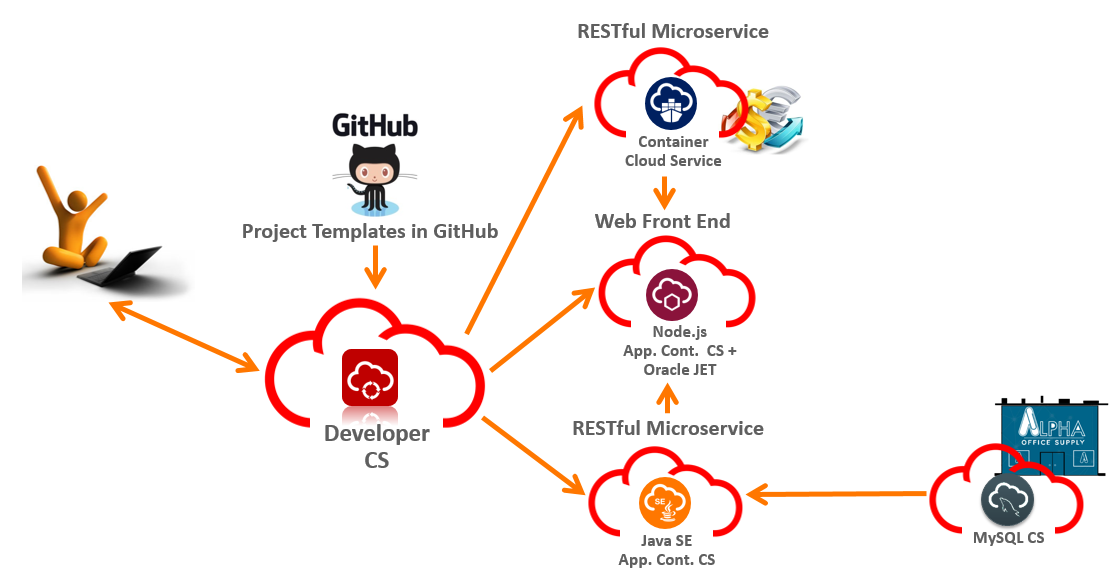
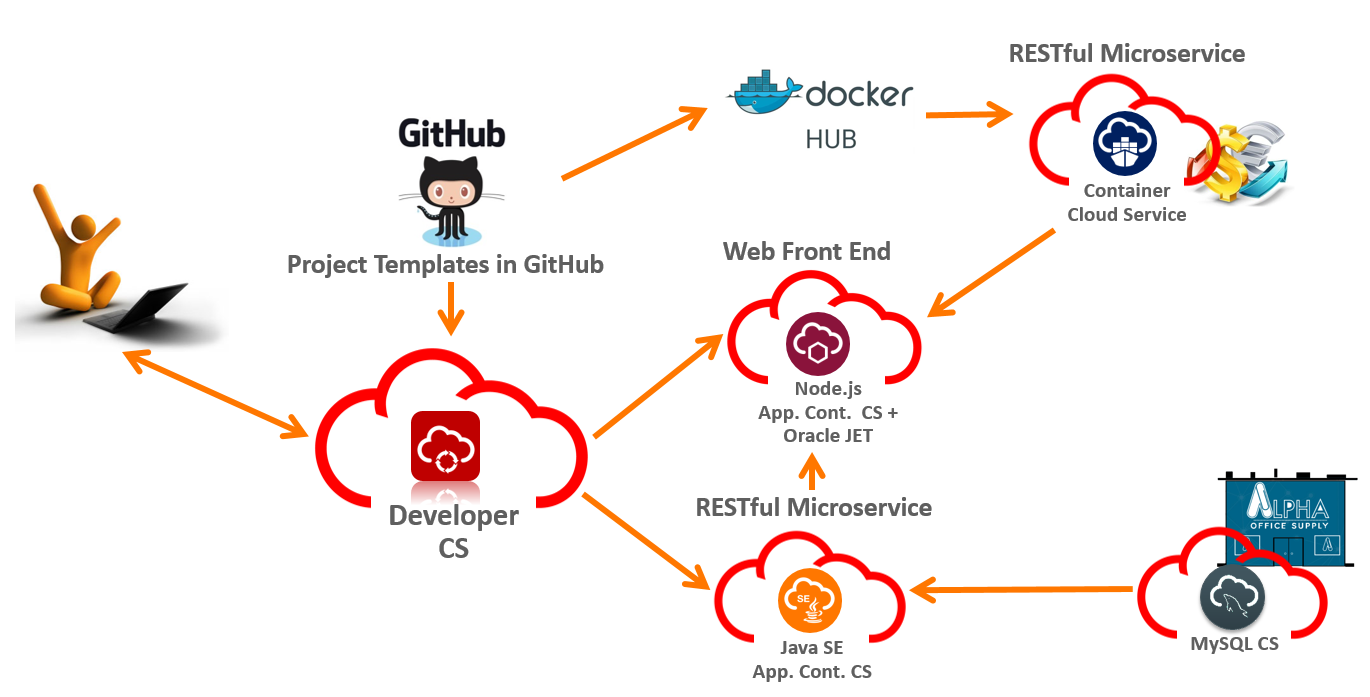
Creating a home splash page for guide
Reworking some fo the UI

diff --git a/index.html b/index.html
@@ -39,7 +39,7 @@
       <md-toolbar class="md-hue-2 infra">
         <h1 class="md-toolbar-tools infra">Workshop Contents</h1>
       </md-toolbar>
-      <md-content>
+      <md-content style="height: 110%;">
         <md-list>
             <md-list-item class="md-3-line toc-item infra" ng-repeat="lab in manifest.workshop.labs" ng-click="getLabGuide(lab); close();">
                 <div class="md-list-item-text infra">
@@ -178,8 +178,8 @@
             $mdSidenav('left').close();
         };
         
-        //upon page load, display README
-        $scope.getLabGuide({filename: 'README.md'});
+        //upon page load, display Home
+        $scope.getLabGuide({filename: 'Home.md'});
     }]);
     
 </script>

diff --git a/Home.md b/Home.md
@@ -1,0 +1,92 @@
+![](images/home/cloud-touch.png)
+# Oracle Touch the Cloud Series Presents
+## AppDev Starter kit 
+This workshop designed to help you get started with your Oracle Cloud trial account.
+    
+## Servcie Breakdown
+As part of your Oracle Cloud Trial you have full access to all of the funcationality of a variety of services. To help break things down lets start by taking the services you have access to and breaking things down
+
+| What You Have in your Trial | What can apply most to AppDev | What will we use in this workshop  |
+| --------------------------- |:-----------------------------:| ----------------------------------:|
+| [Oracle Database](https://cloud.oracle.com/database)                            | [Oracle Database](https://cloud.oracle.com/database)                          | [MySQL](https://cloud.oracle.com/mysql)                                       |
+| [MySQL](https://cloud.oracle.com/mysql)                                         | [MySQL](https://cloud.oracle.com/mysql)                                       | [Application Container](https://cloud.oracle.com/application-container-cloud) |
+| [GoldenGate](https://cloud.oracle.com/goldengate)                               | [Java](https://cloud.oracle.com/java)                                         | [Developer](https://cloud.oracle.com/developer-service)                       |
+| [Database Backup](https://cloud.oracle.com/database-backup)                     | [Mobile](https://cloud.oracle.com/mobile)                                     | [Container](https://cloud.oracle.com/container)                               |
+| [Big Data – Compute Edition](https://cloud.oracle.com/big-data-compute-edition) | [Application Container](https://cloud.oracle.com/application-container-cloud) |                                    |
+| [Big Data Preparation](https://cloud.oracle.com/big-data-preparation)           | [Compute](https://cloud.oracle.com/compute)                                   |                                    |
+| [Ravello](https://cloud.oracle.com/ravello)                                     | [Bare Metal](https://cloud.oracle.com/bare-metal)                             |                                    |
+| [Java](https://cloud.oracle.com/java)                                           | [Storage](https://cloud.oracle.com/storage)                                   |                                    |
+| [Integration](https://cloud.oracle.com/integration)                             | [Container](https://cloud.oracle.com/container)                               |                                    |
+| [SOA](https://cloud.oracle.com/soa)                                             | [Developer](https://cloud.oracle.com/developer-service)                       |                                    |
+| [Process](https://cloud.oracle.com/process)                                     | [Messaging](https://cloud.oracle.com/messaging)                               |                                    |
+| [Mobile](https://cloud.oracle.com/mobile)                                       |                               |                                    |
+| [Application Container](https://cloud.oracle.com/application-container-cloud)   |                               |                                    |
+| [Internet of Things](https://cloud.oracle.com/iot)                              |                               |                                    |
+| [Compute](https://cloud.oracle.com/compute)                                     |                               |                                    |
+| [Bare Metal](https://cloud.oracle.com/bare-metal)                               |                               |                                    |
+| [Storage](https://cloud.oracle.com/storage)                                     |                               |                                    |
+| [Container](https://cloud.oracle.com/container)                                 |                               |                                    |
+| [Developer](https://cloud.oracle.com/developer-service)                         |                               |                                    |
+| [Messaging](https://cloud.oracle.com/messaging)                                 |                               |                                    |
+ 
+      
+## How to View the Lab Guides
+
+- The Labguides are best viewed using the Workshop's [GitHub IO Pages Website URL](https://c-rocket.github.io/TouchTheCloudDevOpsLab/) 
+
+- Once you are viewing the Workshop's GitHub Pages website, you can see a list of Lab Guides at any time by clicking on the **Menu Icon**
+
+    ![](images/WorkshopMenu.png)  
+
+- To log issues and view the Lab Guide source, go to the [github oracle](https://github.com/c-rocket/TouchTheCloudDevOpsLab) repository. 
+
+## Touch The Cloud, an AppDev workshop for Trial Accounts
+
+This Oracle Public Cloud workshop will walk you through AppDev services found in your trial account. It will also give you a hands on example of leveraging many of these servcies to build out a microservices architecture. You will be following DevOps principles of automation and consistancy throughout the workshop. No coding or detailed background of Oracle Cloud Services is required.
+
+## Workshop Details
+
+**Reference the following Lab Guides by opening their Documentation Files:**
+
+## Lab 100: Build and Deploy your UI
+
+**Documenation**: [LabGuide100.md](LabGuide100.md)
+
+### Objectives
+
+- Access [Developer Cloud Service](https://cloud.oracle.com/en_US/developer-service)
+- Create Initial Project
+- Import the UI application built on [NodeJS](https://nodejs.org/en/) and leveraging Oracle open source [JET framework](http://www.oracle.com/webfolder/technetwork/jet/index.html)
+- Build and Deploy project using Developer Cloud Service and [Oracle Application Container Cloud Service](https://cloud.oracle.com/en_US/application-container-cloud)
+
+## Lab 200: Your First Microservice
+
+**Documenation**: [LabGuide200.md](LabGuide200.md)
+
+### Objectives
+
+- Access [Developer Cloud Service](https://cloud.oracle.com/en_US/developer-service)
+- Import the microservice written in [Java](https://www.java.com/en/) into your project
+- Build and Deploy project using Developer Cloud Service and [Oracle Application Container Cloud Service](https://cloud.oracle.com/en_US/application-container-cloud)
+- Bind the microservice to your UI
+
+## Lab 300: Create the Backend
+
+**Documenation**: [LabGuide300.md](LabGuide300.md)
+
+### Objectives
+
+- Provision your [MySQL Cloud Service](https://cloud.oracle.com/en_US/mysql) backend
+- Access [Developer Cloud Service](https://cloud.oracle.com/en_US/developer-service)
+- Deploy your setup script automatically to your MySQL instance
+- Bind the databse to your microservice
+
+## Lab 400:  Your Second Microservice
+
+**Documenation**: [LabGuide400.md](LabGuide400.md)
+
+### Objectives
+
+- Provision your [Container Cloud service](https://cloud.oracle.com/en_US/container) instance
+- Deploy a docker image from Docker Hub to your container cloud service
+- Bind the microservice to your UI
